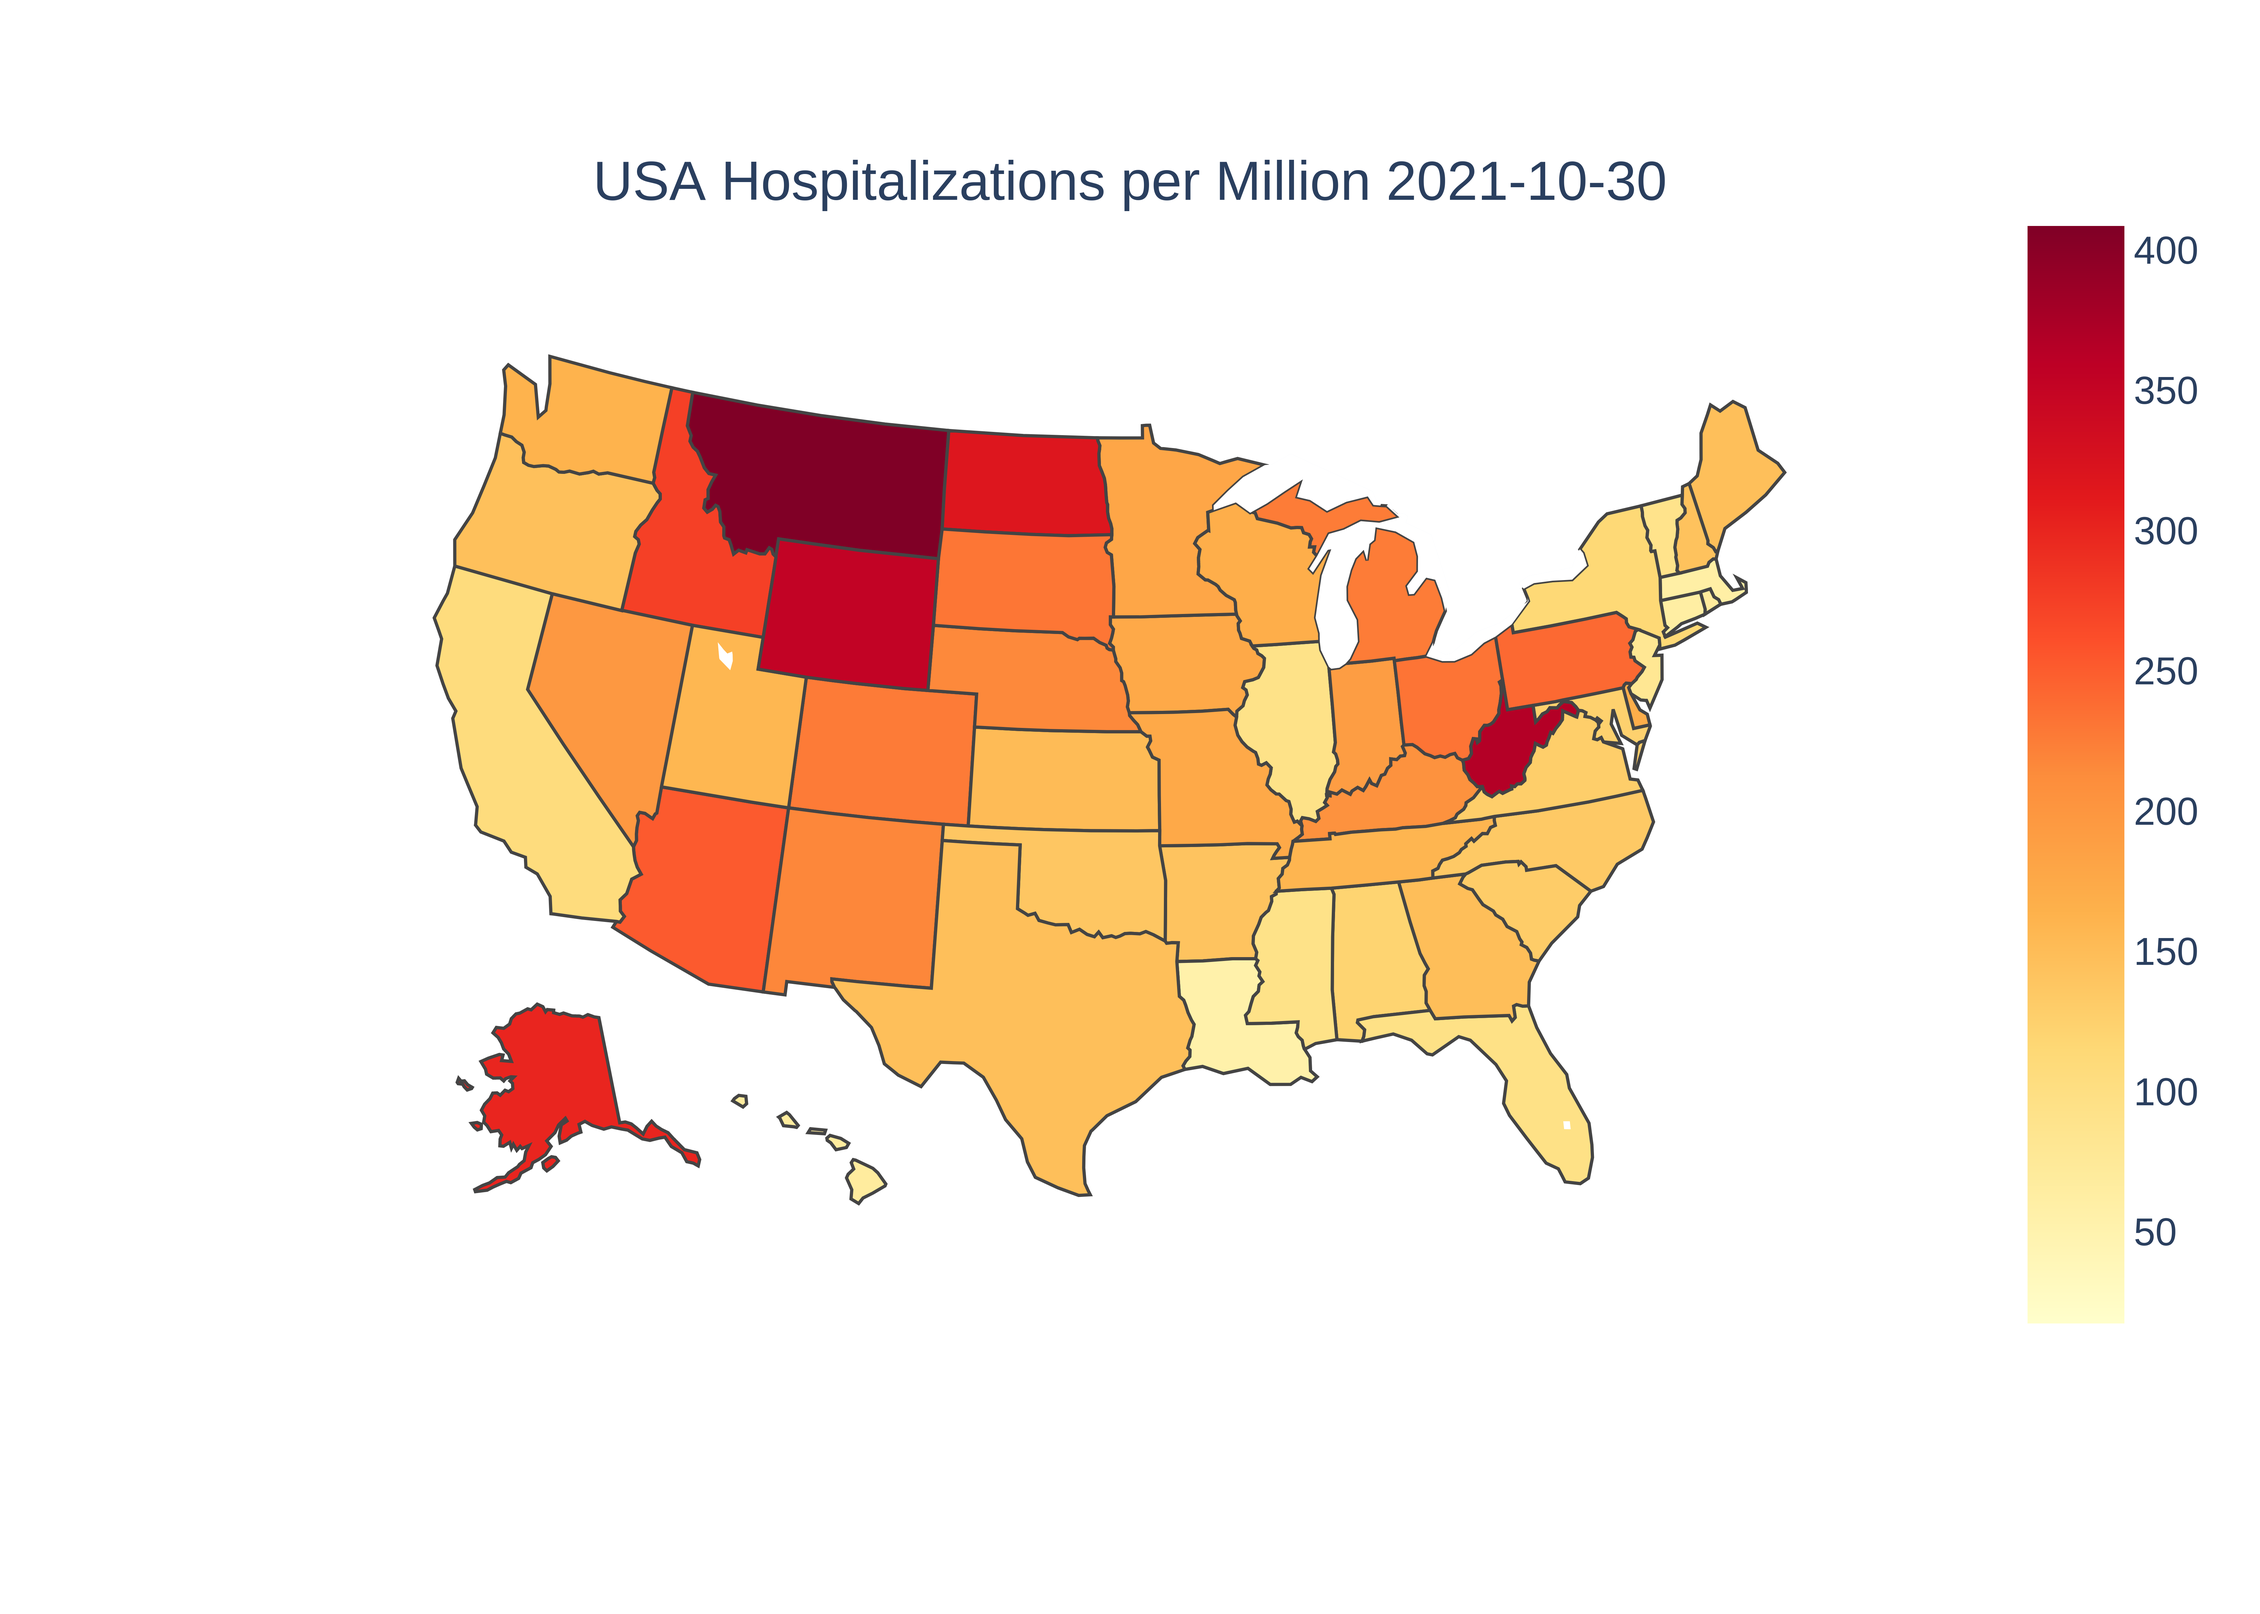
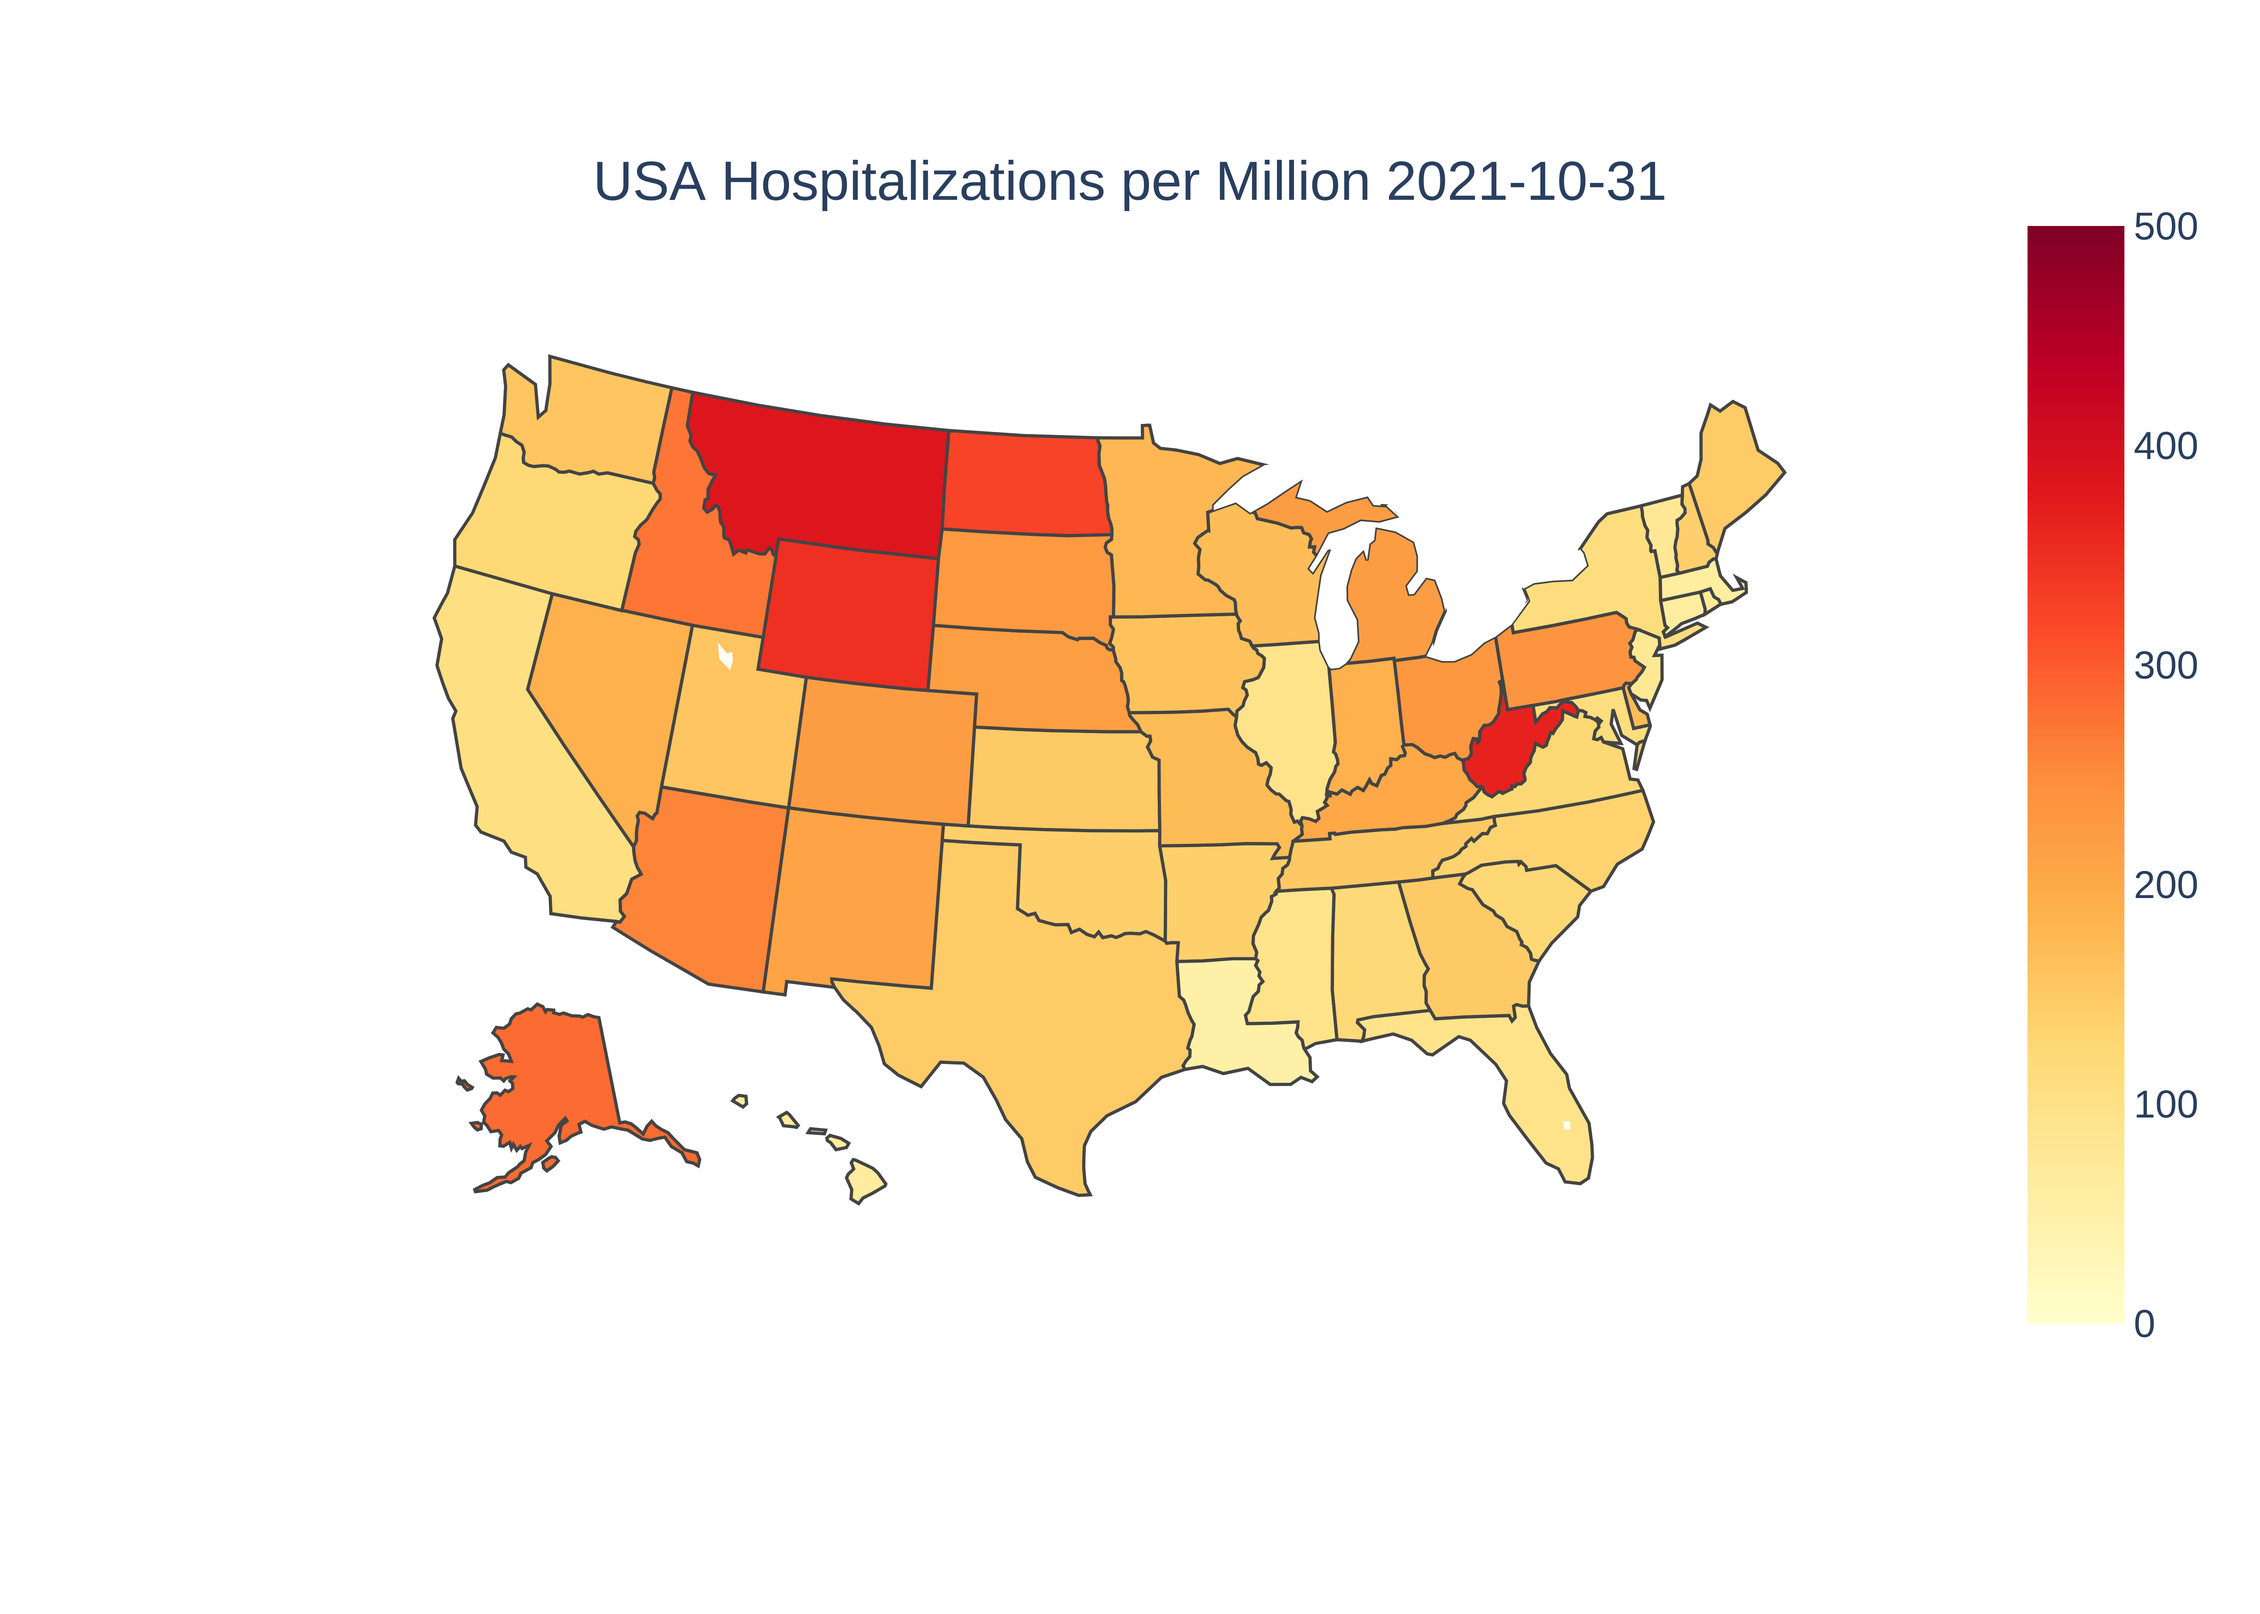
Added new colormap

diff --git a/src/data_viz.py b/src/data_viz.py
@@ -276,7 +276,13 @@ def plot_tables(region="USA", start_date=pd.Timestamp(2020,1,1), end_date=pd.Tim
 def generate_maps(path=""):
     state_rt = dp.get_all_state_rt()
     state_hosps = dp.get_all_state_hosps()
-    hosp_fig = px.choropleth(state_hosps, locations='State', locationmode="USA-states", color="Hospitalizations per Million", scope="usa", color_continuous_scale='YlOrRd')
+    hosp_fig = px.choropleth(state_hosps, 
+                            locations='State', 
+                            locationmode="USA-states", 
+                            color="Hospitalizations per Million", 
+                            scope="usa", 
+                            range_color=(0,500),
+                            color_continuous_scale='YlOrRd')
     hosp_fig.update_layout(
         title={
             'text': f"USA Hospitalizations per Million\n{pd.Timestamp.today().date()}",
@@ -286,7 +292,14 @@ def generate_maps(path=""):
             'yanchor': 'top'},
         coloraxis_colorbar_title="")
         
-    rt_fig = px.choropleth(state_rt, locations='State', locationmode="USA-states", color="Rt", scope="usa", color_continuous_scale='YlOrRd')
+    rt_fig = px.choropleth(state_rt, 
+                        locations='State', 
+                        locationmode="USA-states", 
+                        color="Rt", 
+                        scope="usa", 
+                        color_continuous_scale='balance',
+                        color_continuous_midpoint=1,
+                        range_color=(.7,1.3))
     rt_fig.update_layout(
         title={
             'text': f"USA Weekly Growth in Hospitalizations\n{pd.Timestamp.today().date()}",
